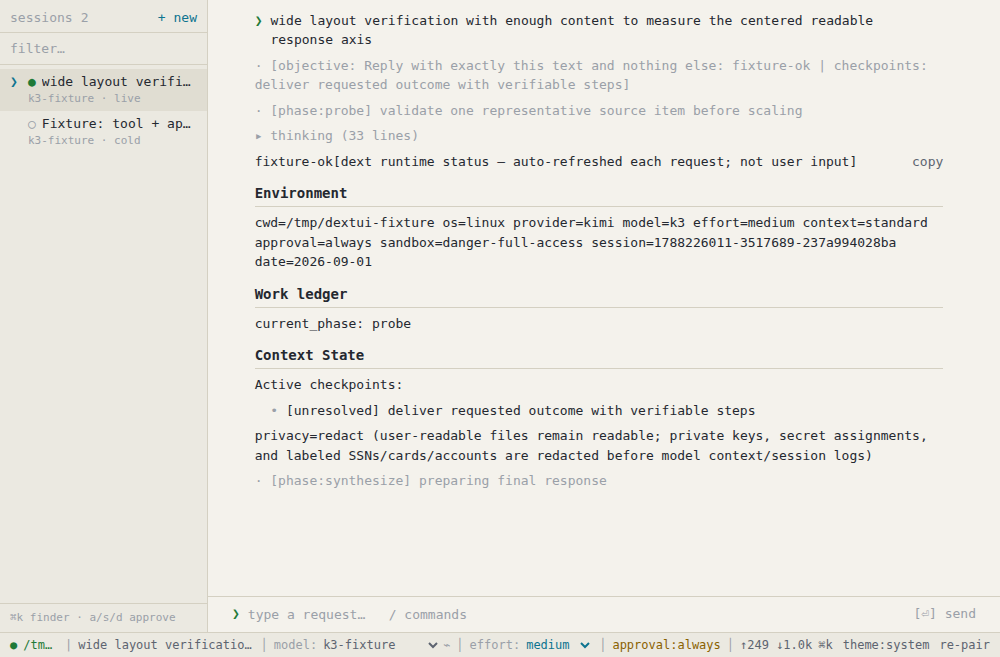
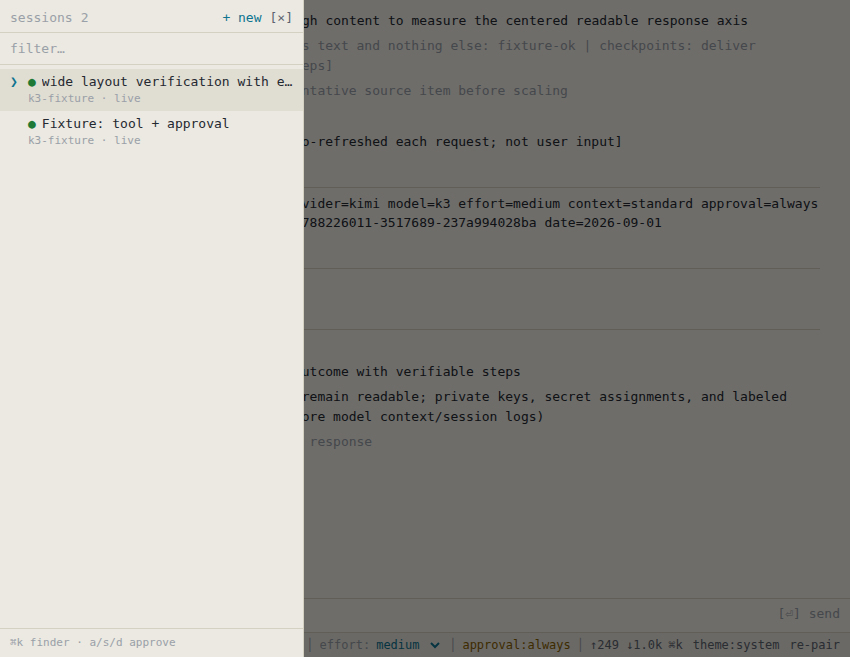
fix: restore left-anchored chat/input and add collapsible session rail
Correct the prior responsive pass, which over-centered an 88ch conversation
column and made the workspace feel like a document floating in empty space.

Layout:
- restore chat/history to a left-anchored working surface that uses the full
  main pane with modest fluid edge gutters
- restore the composer's original full-window row (10px padding); it no longer
  inherits a centered/max-width axis
- restore desktop composer spanning beneath the sidebar, matching the prior
  interaction geometry the user preferred
- remove unused content-wide/content-readable caps; ultrawide space is no
  longer discarded
- tools, diffs, slash output, normal text, user turns, thinking and markers all
  size against available width without page overflow

Sidebar:
- persisted desktop minimize state (localStorage), smooth rail width collapse
- minimal [‹] control in session header and [› sessions] restore in status line
- Ctrl/Cmd+B toggles desktop collapse or mobile drawer
- dedicated mobile [×] close control; desktop minimize hidden in drawer mode
- unified all rail/menu breakpoints at 900px (fixed 821–900px state where the
  rail was hidden but no reopen button existed)
- no-session status also exposes restore when persisted collapsed
- drawer state resets when crossing the 900px breakpoint
- sidebar shortcuts are blocked behind command palette/raw inspector overlays
- scrim is explicitly desktop-hidden/mobile-visible, preventing stale grid
  children after resize
[…]

diff --git a/apps/web/src/App.svelte b/apps/web/src/App.svelte
@@ -1,5 +1,5 @@
 <script lang="ts">
-  import { app, start, connection, newSession } from "./lib/state.svelte";
+  import { app, start, connection, newSession, toggleSidebar } from "./lib/state.svelte";
   import type { Block } from "@dextui/protocol";
   import SessionIndex from "./components/SessionIndex.svelte";
   import Scrollback from "./components/Scrollback.svelte";
@@ -48,7 +48,22 @@
     if (c && app.activeId) c.respond(app.activeId, requestId, choice);
   }
 
-  // Keyboard-first approvals: a=once, s=always, d=deny; esc closes overlays.
+  function toggleNavigation() {
+    if (matchMedia("(max-width: 900px)").matches) indexOpen = !indexOpen;
+    else toggleSidebar();
+  }
+
+  // Never carry an open off-canvas drawer across the desktop breakpoint.
+  $effect(() => {
+    const mobile = matchMedia("(max-width: 900px)");
+    const onChange = () => {
+      indexOpen = false;
+    };
+    mobile.addEventListener("change", onChange);
+    return () => mobile.removeEventListener("change", onChange);
+  });
+
+  // Keyboard-first approvals: a=once, s=always, d=deny; Ctrl/Cmd+B toggles navigation.
   $effect(() => {
     const onKey = (e: KeyboardEvent) => {
       if (e.key === "Escape") {
@@ -56,7 +71,12 @@
         else if (indexOpen) indexOpen = false;
         return;
       }
-      if (app.paletteOpen) return;
+      if (app.paletteOpen || inspect) return;
+      if ((e.metaKey || e.ctrlKey) && e.key.toLowerCase() === "b") {
+        e.preventDefault();
+        toggleNavigation();
+        return;
+      }
       // Modified combos belong to the browser/app (Ctrl+A select-all, Ctrl+S save…).
       if (e.ctrlKey || e.metaKey || e.altKey) return;
       const t = e.target as HTMLElement | null;
@@ -95,9 +115,9 @@
     </form>
   </div>
 {:else}
-  <div class="shell" data-state={app.phase} data-agent-id="app.root">
+  <div class="shell" class:rail-collapsed={app.sidebarCollapsed} data-state={app.phase} data-agent-id="app.root">
     <aside class="index" data-state={indexOpen ? "open" : "closed"} data-agent-id="session.rail.wrap">
-      <SessionIndex onPick={() => (indexOpen = false)} />
+      <SessionIndex onPick={() => (indexOpen = false)} onCollapse={toggleSidebar} onClose={() => (indexOpen = false)} />
     </aside>
     {#if indexOpen}
       <div class="index-scrim" onclick={() => (indexOpen = false)} onkeydown={() => {}} role="presentation"></div>
@@ -142,10 +162,13 @@
 
     <div class="statusline">
       {#if activeStore}
-        <StatusLine store={activeStore} onToggleIndex={() => (indexOpen = !indexOpen)} />
+        <StatusLine store={activeStore} onToggleIndex={toggleNavigation} />
       {:else}
         <div class="sl-min" data-agent-id="status.phase" data-state={app.phase}>
-          <button class="act idx-toggle" data-agent-id="index.toggle" onclick={() => (indexOpen = !indexOpen)}>[≡]</button>
+          <button class="act idx-toggle" data-agent-id="index.toggle" onclick={toggleNavigation}>[≡]</button>
+          {#if app.sidebarCollapsed}
+            <button class="act rail-restore-min" data-agent-id="sidebar.restore" onclick={toggleSidebar}>[› sessions]</button>
+          {/if}
           <span class={app.phase === "live" ? "st-green" : app.phase === "failed" ? "st-red" : "st-yellow pulse"}>●</span>
           <span class="dim">{app.phase}{app.phaseDetail ? ` · ${app.phaseDetail}` : ""}</span>
           <span class="faint sl-min-right">⌘k finder</span>
@@ -243,12 +266,18 @@
   .sl-min-right {
     margin-left: auto;
   }
+  .rail-restore-min {
+    color: var(--cyan);
+  }
   .idx-toggle {
     display: none;
   }
   @media (max-width: 900px) {
     .idx-toggle {
       display: inline;
+    }
+    .rail-restore-min {
+      display: none;
     }
   }
   .insp {

diff --git a/apps/web/src/app.css b/apps/web/src/app.css
@@ -20,9 +20,7 @@
   --orange: #d19a66;
   --mono: "JetBrains Mono", ui-monospace, SFMono-Regular, Menlo, Consolas, monospace;
   --rail-size: clamp(13rem, 17vw, 19rem);
-  --page-gutter: clamp(0.75rem, 2.4vw, 2.5rem);
-  --content-wide: 92rem;
-  --content-readable: 88ch;
+  --page-gutter: clamp(0.75rem, 1.2vw, 1.25rem);
 }
 
 html[data-theme="light"] {
@@ -112,13 +110,14 @@ a {
   grid-template-rows: minmax(0, 1fr) auto auto;
   grid-template-areas:
     "index main"
-    "index composer"
+    "composer composer"
     "status status";
   width: 100%;
   height: 100%;
   height: 100dvh;
   min-width: 0;
   overflow: hidden;
+  transition: grid-template-columns 140ms ease-out;
 }
 
 .shell > .index {
@@ -152,11 +151,24 @@ a {
   background: var(--bg1);
 }
 
-/* Shared horizontal geometry for transcript, approvals, composer, and hero. */
+/* Fluid edge gutters; content stays left-anchored and uses the available width. */
 .content-axis {
-  width: min(100%, var(--content-wide));
-  margin-inline: auto;
+  width: 100%;
   padding-inline: var(--page-gutter);
+}
+
+.shell.rail-collapsed {
+  grid-template-columns: 0 minmax(0, 1fr);
+}
+.shell.rail-collapsed > .index {
+  visibility: hidden;
+  overflow: hidden;
+  border-right: 0;
+  pointer-events: none;
+}
+
+.index-scrim {
+  display: none;
 }
 
 @media (max-width: 900px) {
@@ -170,7 +182,14 @@ a {
       "composer"
       "status";
   }
-  .shell > .index {
+  .shell.rail-collapsed {
+    grid-template-columns: 1fr;
+  }
+  .shell > .index,
+  .shell.rail-collapsed > .index {
+    visibility: visible;
+    overflow: visible;
+    pointer-events: auto;
     position: fixed;
     inset: 0 auto 0 0;
     width: min(19rem, 86vw);
@@ -183,6 +202,7 @@ a {
     transform: none;
   }
   .index-scrim {
+    display: block;
     position: fixed;
     inset: 0;
     z-index: 29;

diff --git a/apps/web/src/components/StatusLine.svelte b/apps/web/src/components/StatusLine.svelte
@@ -3,7 +3,7 @@
   //   ● ~/cwd | session │ model │ approval:ask │ Ctx [██████░░░░] 42% │ ↑12k ↓3k $0.04
   import type { SessionStore } from "@dextui/client";
   import type { ThinkingEffort } from "@dextui/protocol";
-  import { app, toggleTheme, rePair } from "../lib/state.svelte";
+  import { app, toggleTheme, rePair, toggleSidebar } from "../lib/state.svelte";
   import { fmtTokens, fmtElapsed } from "../lib/markdown";
 
   let { store, onToggleIndex }: { store: SessionStore; onToggleIndex?: () => void } = $props();
@@ -85,6 +85,9 @@
 <div class="sl" data-agent-id="status.hud" data-state={view.working ? "working" : "idle"}>
   {#if onToggleIndex}
     <button class="act idx-toggle" data-agent-id="index.toggle" onclick={onToggleIndex}>[≡]</button>
+  {/if}
+  {#if app.sidebarCollapsed}
+    <button class="act rail-restore" data-agent-id="sidebar.restore" onclick={toggleSidebar} title="Show sessions (Ctrl/Cmd+B)">[› sessions]</button>
   {/if}
   <span class={`dot ${dotClass}`} data-agent-id="status.phase" data-state={app.phase}>●</span>
   <span class="st-green truncate">{view.cwd || "dextui"}</span>
@@ -257,9 +260,15 @@
   .idx-toggle {
     display: none;
   }
-  @media (max-width: 820px) {
+  .rail-restore {
+    color: var(--cyan);
+  }
+  @media (max-width: 900px) {
     .idx-toggle {
       display: inline;
+    }
+    .rail-restore {
+      display: none;
     }
     .truncate {
       max-width: 90px;

diff --git a/apps/web/src/components/SessionIndex.svelte b/apps/web/src/components/SessionIndex.svelte
@@ -3,7 +3,11 @@
   // Status glyphs mirror the TUI: ● live · ● starting (pulse) · ○ cold · ● exited.
   import { app, activate, newSession } from "../lib/state.svelte";
 
-  let { onPick }: { onPick?: () => void } = $props();
+  let {
+    onPick,
+    onCollapse,
+    onClose,
+  }: { onPick?: () => void; onCollapse?: () => void; onClose?: () => void } = $props();
 
   let query = $state("");
 
@@ -30,6 +34,8 @@
     <span class="faint">sessions</span>
     <span class="faint">{filtered.length}</span>
     <button class="act accent" data-agent-id="session.new" onclick={newSession}>+ new</button>
+    <button class="act rail-min" data-agent-id="sidebar.collapse" onclick={onCollapse} title="Minimize sessions (Ctrl/Cmd+B)">[‹]</button>
+    <button class="act rail-close" data-agent-id="sidebar.close" onclick={onClose} title="Close sessions">[×]</button>
   </div>
   <input
     bind:value={query}
@@ -80,8 +86,19 @@
     padding: 8px 10px 4px;
     border-bottom: 1px solid var(--line);
   }
-  .idx-head .act {
+  .idx-head [data-agent-id="session.new"] {
     margin-left: auto;
+  }
+  .rail-close {
+    display: none;
+  }
+  @media (max-width: 900px) {
+    .rail-min {
+      display: none;
+    }
+    .rail-close {
+      display: inline;
+    }
   }
   .idx-search {
     padding: 6px 10px;

diff --git a/apps/web/src/lib/state.svelte.ts b/apps/web/src/lib/state.svelte.ts
@@ -22,6 +22,7 @@ export const app = $state({
   modelCatalog: [] as ModelGroup[],
   effortOptions: [] as ThinkingEffort[],
   paletteOpen: false,
+  sidebarCollapsed: false,
   theme: "dark" as Theme,
   toasts: [] as Toast[],
 });
@@ -81,6 +82,11 @@ export async function copyText(text: string, what = "Copied"): Promise<void> {
   }
 }
 
+export function toggleSidebar(): void {
+  app.sidebarCollapsed = !app.sidebarCollapsed;
+  localStorage.setItem("dextui.sidebarCollapsed", app.sidebarCollapsed ? "1" : "0");
+}
+
 export function rePair(): void {
   localStorage.removeItem("dextui.token");
   location.reload();
@@ -92,6 +98,7 @@ export function ensureStarted(): void {
   const stored = localStorage.getItem("dextui.theme");
   const theme: Theme = stored === "dark" || stored === "light" || stored === "system" ? stored : "system";
   app.theme = theme;
+  app.sidebarCollapsed = localStorage.getItem("dextui.sidebarCollapsed") === "1";
   applyTheme(theme);
   // Follow OS scheme changes live while in system mode.
   sysDark.addEventListener("change", () => {

diff --git a/apps/web/src/components/Block.svelte b/apps/web/src/components/Block.svelte
@@ -132,8 +132,7 @@
     user-select: none;
   }
   .b-user {
-    width: min(100%, var(--content-readable));
-    margin-inline: auto;
+    width: 100%;
     display: flex;
     gap: 8px;
     align-items: baseline;
@@ -144,8 +143,7 @@
   }
   .b-text {
     position: relative;
-    width: min(100%, var(--content-readable));
-    margin-inline: auto;
+    width: 100%;
   }
   .cursor {
     color: var(--green);
@@ -165,8 +163,7 @@
     visibility: visible;
   }
   .b-think {
-    width: min(100%, var(--content-readable));
-    margin-inline: auto;
+    width: 100%;
   }
   .b-think.live {
     background: var(--bg1);
@@ -253,11 +250,10 @@
     display: none;
   }
   .view-body {
-    width: min(100%, var(--content-readable));
+    width: 100%;
   }
   .b-marker {
-    width: min(100%, var(--content-readable));
-    margin-inline: auto;
+    width: 100%;
     white-space: pre-wrap;
   }
   .b-slash {

diff --git a/apps/web/src/components/Composer.svelte b/apps/web/src/components/Composer.svelte
@@ -126,7 +126,7 @@
   }
 </script>
 
-<div class="c-root content-axis" data-agent-id="composer.root">
+<div class="c-root" data-agent-id="composer.root">
   {#if slashOpen && slashList.length > 0}
     <div class="c-menu" data-agent-id="composer.menu" data-state="open">
       {#each slashList as c, i (c.cmd)}
@@ -177,7 +177,7 @@
 <style>
   .c-root {
     position: relative;
-    padding-block: clamp(0.35rem, 0.8vh, 0.6rem);
+    padding: 4px 10px 6px;
   }
   .c-row {
     display: flex;
@@ -212,8 +212,8 @@
   .c-menu {
     position: absolute;
     bottom: 100%;
-    left: var(--page-gutter);
-    right: var(--page-gutter);
+    left: 10px;
+    right: 10px;
     margin-bottom: 2px;
     border: 1px solid var(--line);
     background: var(--bg1);

diff --git a/README.md b/README.md
@@ -53,10 +53,10 @@ answers `markdown table demo` with a rich-markdown turn.
 - **Real markdown rendering**: GFM tables, nested lists, headings, blockquotes,
   fences, safe links — real DOM elements, escaped by construction; pre-drawn
   box-art passes through verbatim in x-scrolling `<pre>`
-- **Multi-session** index with status glyphs and pending badges
+- **Multi-session** index with status glyphs and pending badges; desktop sidebar can be minimized/restored (`Ctrl/Cmd+B`) and persists, while narrow screens use an off-canvas drawer
 - **Keyboard-first approvals** (mock/upstream): `a` / `s` / `d`, note, diff preview
 - **Finder** (`⌘K`/`Ctrl+K`): fzf-style — sessions, approvals, theme, stop, re-pair
-- **Terminal composer**: `❯` prompt line, slash menu with tab completion, per-session drafts
+- **Responsive working surface**: chat/history stay left-anchored and use the available main pane; the composer keeps its full-window prompt behavior; document height is fixed to the viewport and only scrollback scrolls
 - **Status line** in dext's TUI idiom: `● cwd | title │ model │ effort │ approval │ Ctx [██████░░░░] │ ↑↓ $`
 - **Per-session model + reasoning controls**: native web selectors populated from dext's configured provider catalog. Choose a provider/model before a fresh session's first turn; model then locks to the durable seat. Reasoning effort (`off` through `max`) remains changeable between turns and is reapplied after resume.
 - **Themes**: dark / light / system (follows OS live), persisted
